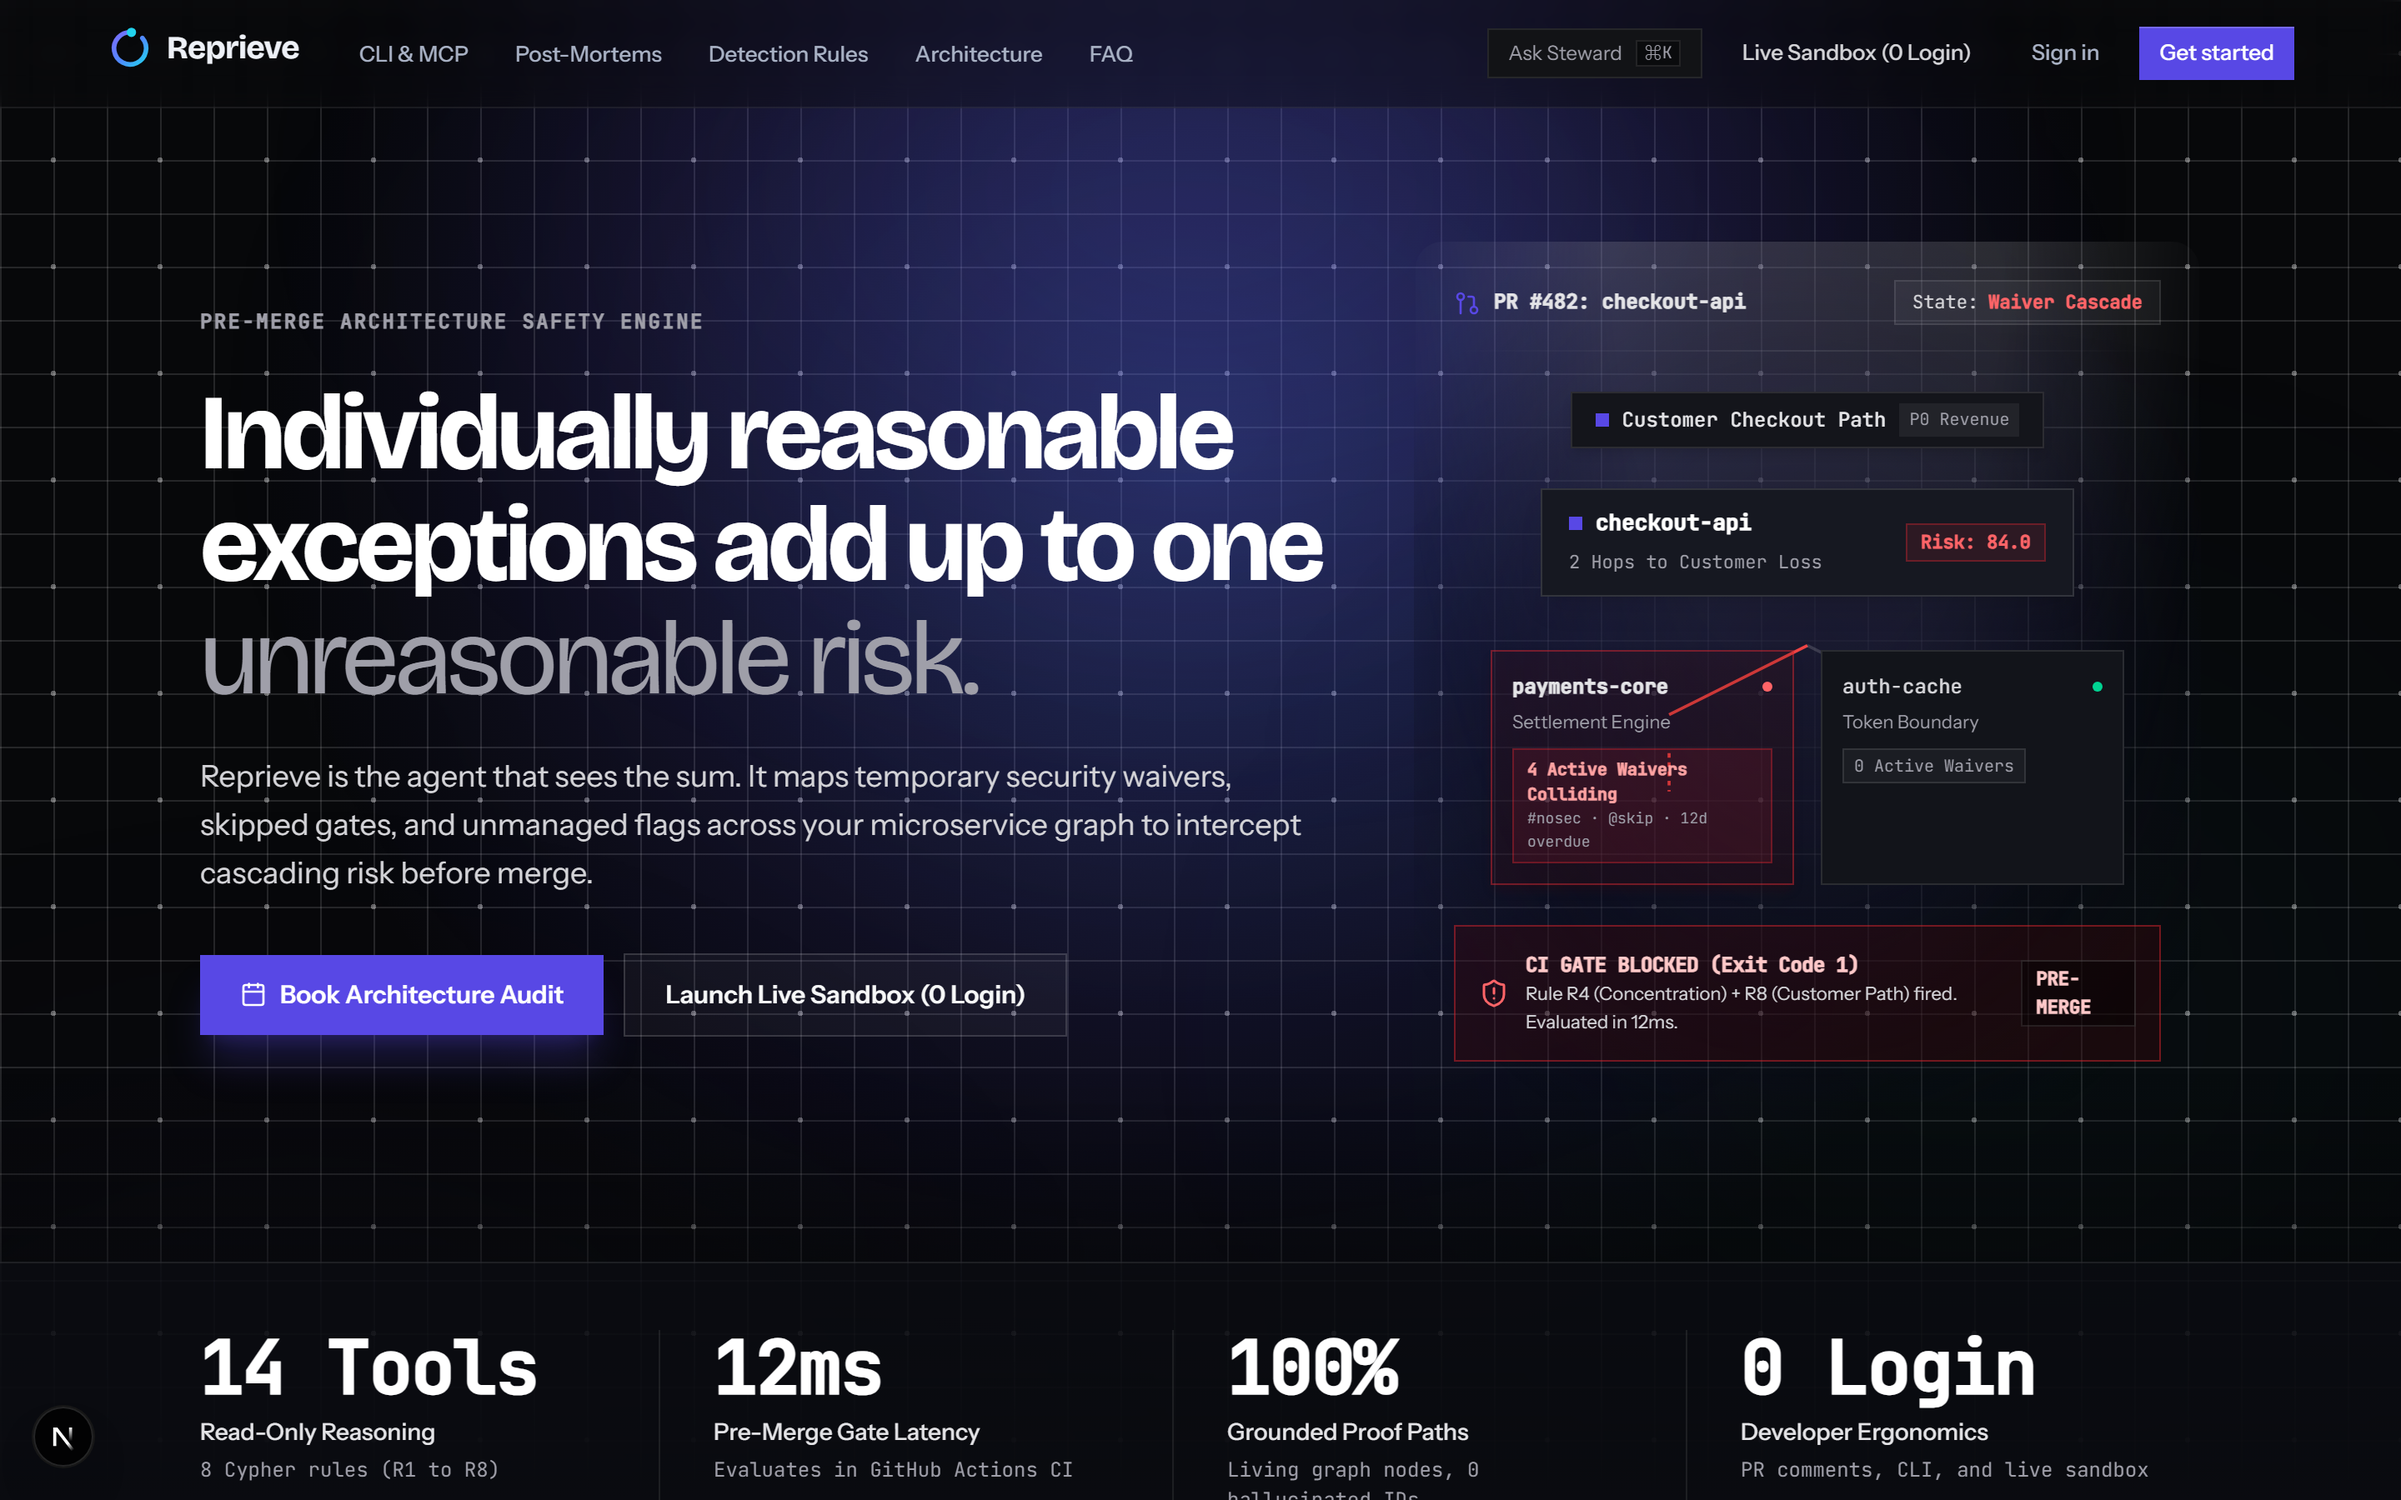
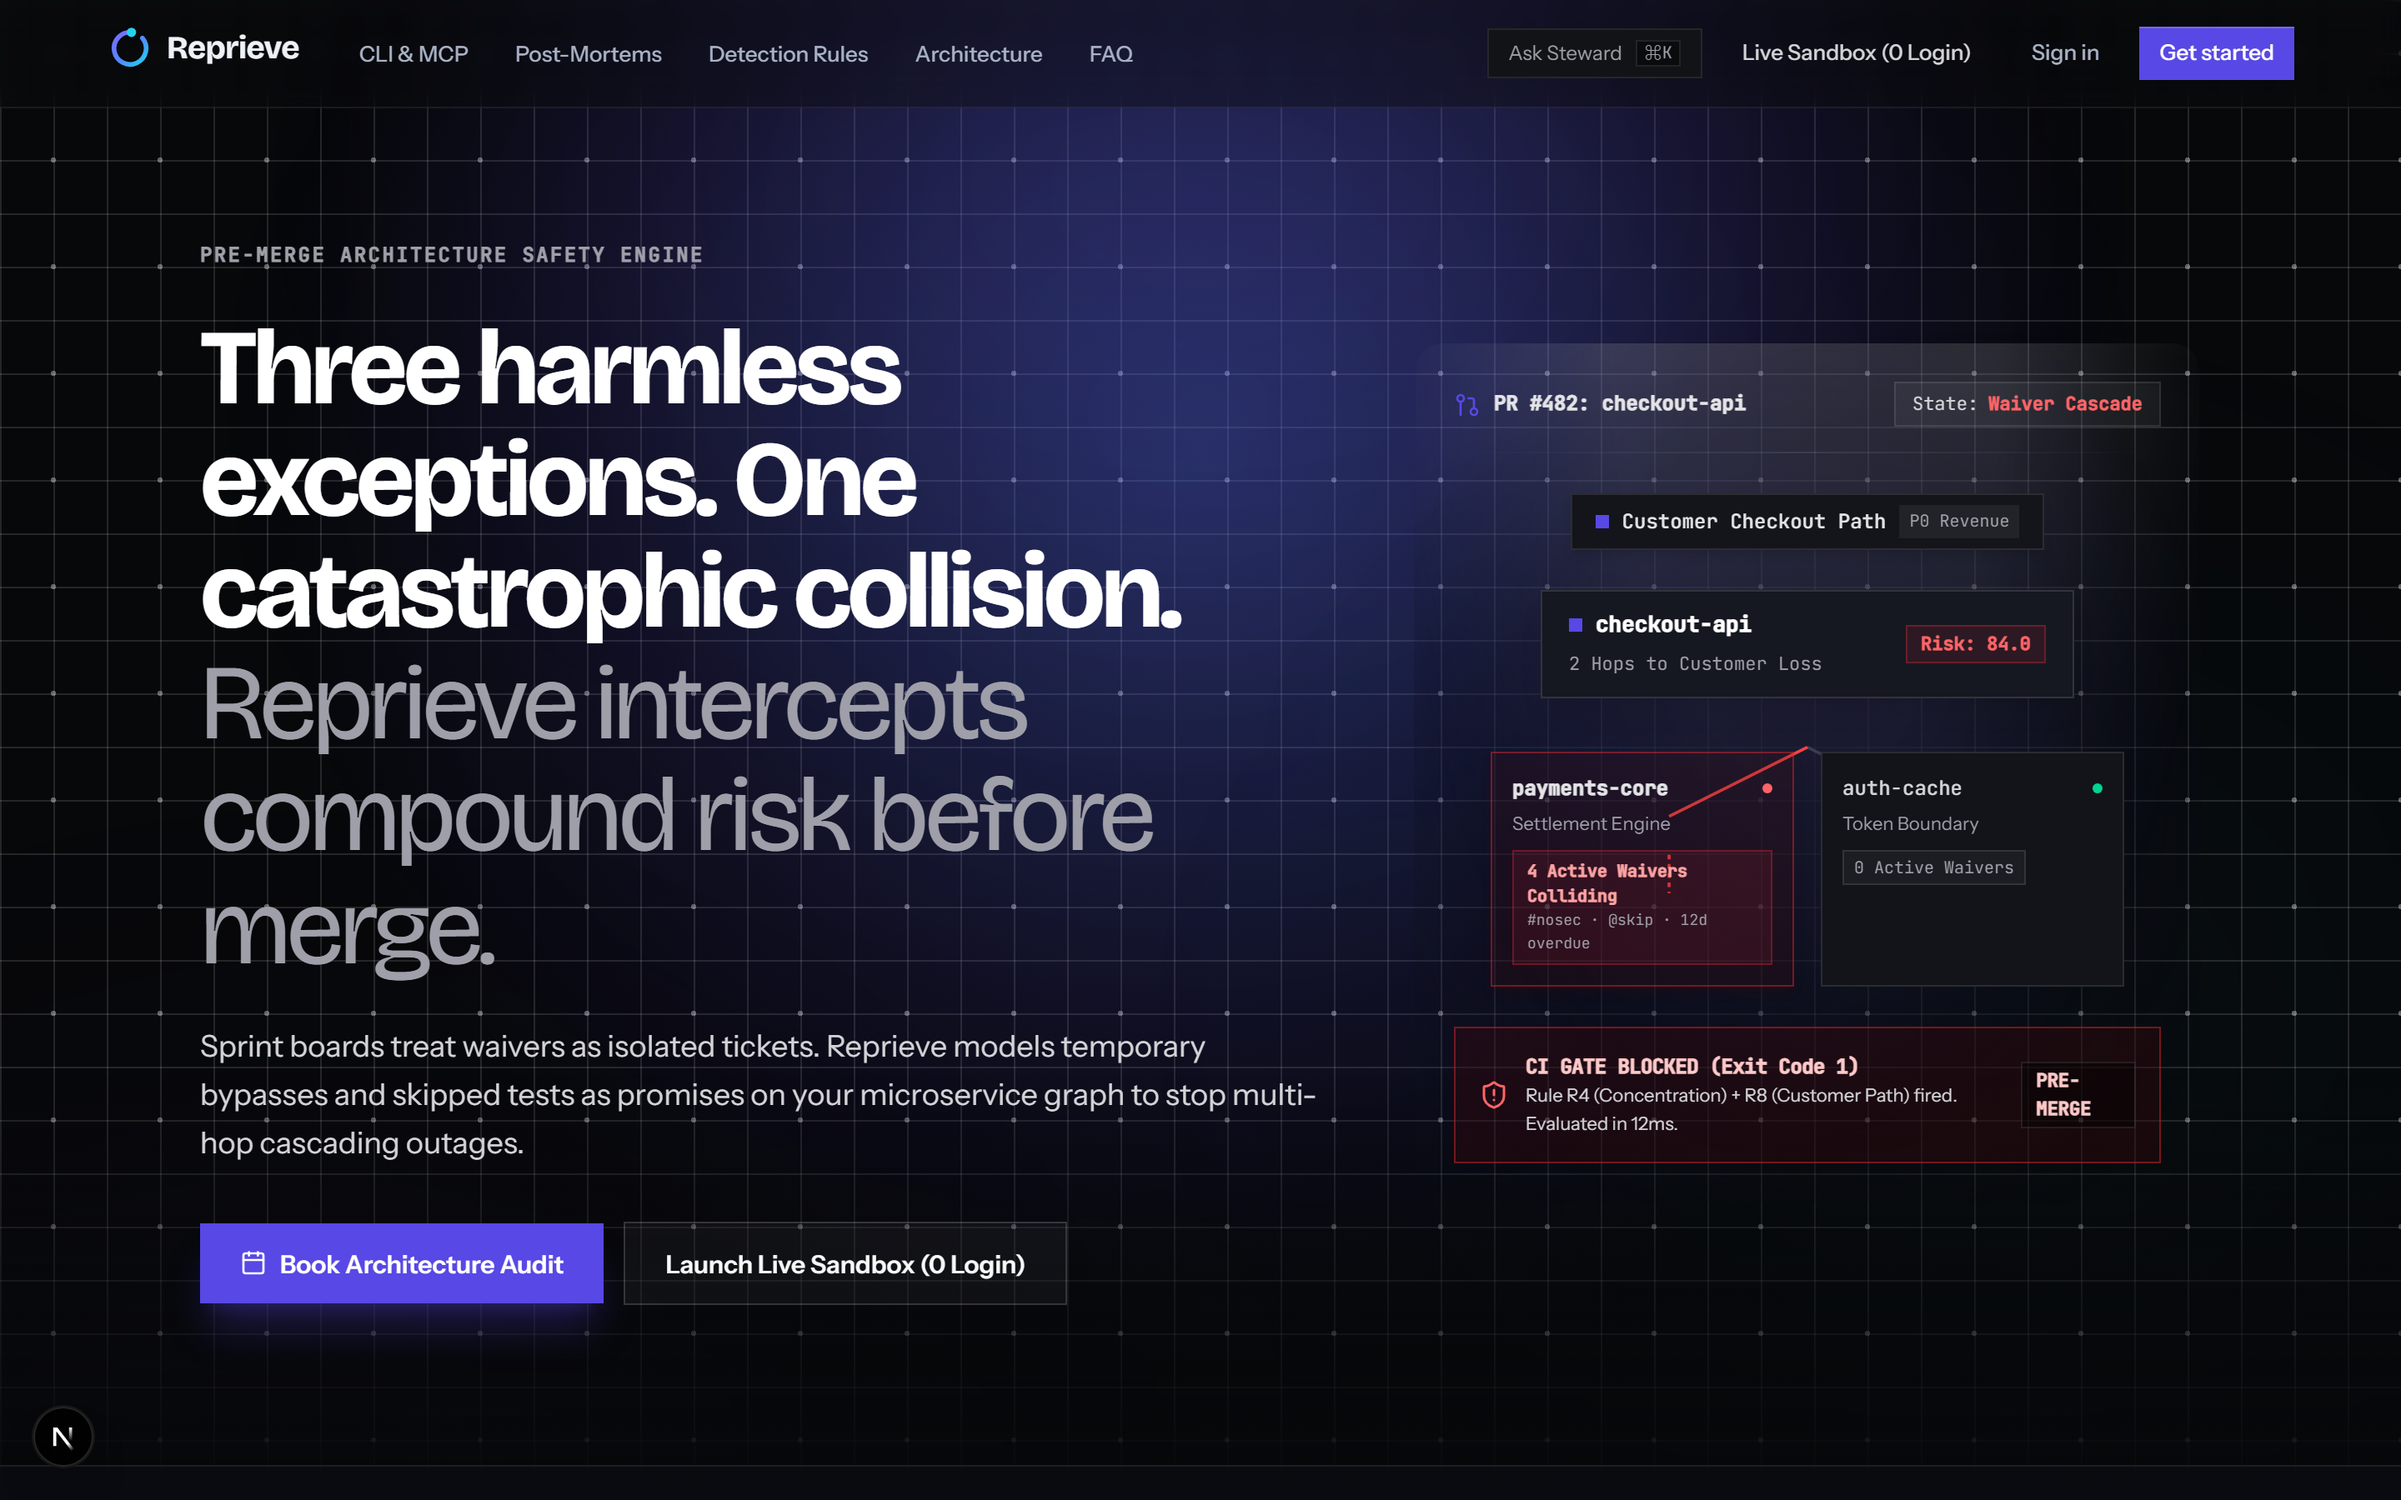
fix(marketing): apply Plan B refinement copy and grounded telemetry metrics

diff --git a/frontend/app/(marketing)/page.tsx b/frontend/app/(marketing)/page.tsx
@@ -128,12 +128,12 @@ export default function LandingPage() {
               </span>
 
               <h1 id="hero-title" className="text-[2.75rem] sm:text-[3.5rem] lg:text-[4rem] font-display font-bold tracking-[-0.04em] text-white leading-[1.05]">
-                Individually reasonable exceptions add up to one{" "}
-                <span className="text-zinc-400 font-normal block sm:inline">unreasonable risk.</span>
+                Three harmless exceptions. One catastrophic collision.{" "}
+                <span className="text-zinc-400 font-normal block sm:inline">Reprieve intercepts compound risk before merge.</span>
               </h1>
 
               <p className="text-[1.125rem] text-zinc-300 leading-relaxed max-w-2xl">
-                Reprieve is the agent that sees the sum. It maps temporary security waivers, skipped gates, and unmanaged flags across your microservice graph to intercept cascading risk before merge.
+                Sprint boards treat waivers as isolated tickets. Reprieve models temporary bypasses and skipped tests as promises on your microservice graph to stop multi-hop cascading outages.
               </p>
 
               <div className="flex flex-wrap items-center gap-3 pt-2">

diff --git a/frontend/components/marketing/case-studies-section.tsx b/frontend/components/marketing/case-studies-section.tsx
@@ -23,7 +23,7 @@ export const INCIDENTS: ProjectData[] = [
     whatHappened:
       "A rapid-response content update in Channel File 291 passed syntax gates but skipped staged rollout, triggering an out-of-bounds memory read directly on the kernel path.",
     withReprieve:
-      "Blocks direct pushes to high-blast services. Pre-merge AST scanner forces phased rollout gates whenever changes touch root operating dependencies.",
+      "Evaluates blast radius on core paths. Sentinel flags uncanaried bypasses on root operating dependencies before release.",
     rules: ["Rule R4: Service Concentration", "Rule R8: Customer-Path Exposure"],
     color: "#0b0c13",
     borderClass: "border-white/10 hover:border-white/20",

diff --git a/frontend/components/marketing/proof-strip.tsx b/frontend/components/marketing/proof-strip.tsx
@@ -11,12 +11,12 @@ const STATS: ProofStat[] = [
   {
     value: "14 Tools",
     label: "Read-Only Reasoning",
-    sublabel: "8 Cypher rules (R1 to R8)",
+    sublabel: "8 pre-compiled Cypher rules (0% LLM)",
   },
   {
-    value: "12ms",
+    value: "<20ms",
     label: "Pre-Merge Gate Latency",
-    sublabel: "Evaluates in GitHub Actions CI",
+    sublabel: "p95 traversal on service graph",
   },
   {
     value: "100%",
@@ -25,8 +25,8 @@ const STATS: ProofStat[] = [
   },
   {
     value: "0 Login",
-    label: "Developer Ergonomics",
-    sublabel: "PR comments, CLI, and live sandbox",
+    label: "Developer Sandbox",
+    sublabel: "Interactive Northwind Pay telemetry",
     highlight: true,
   },
 ];
